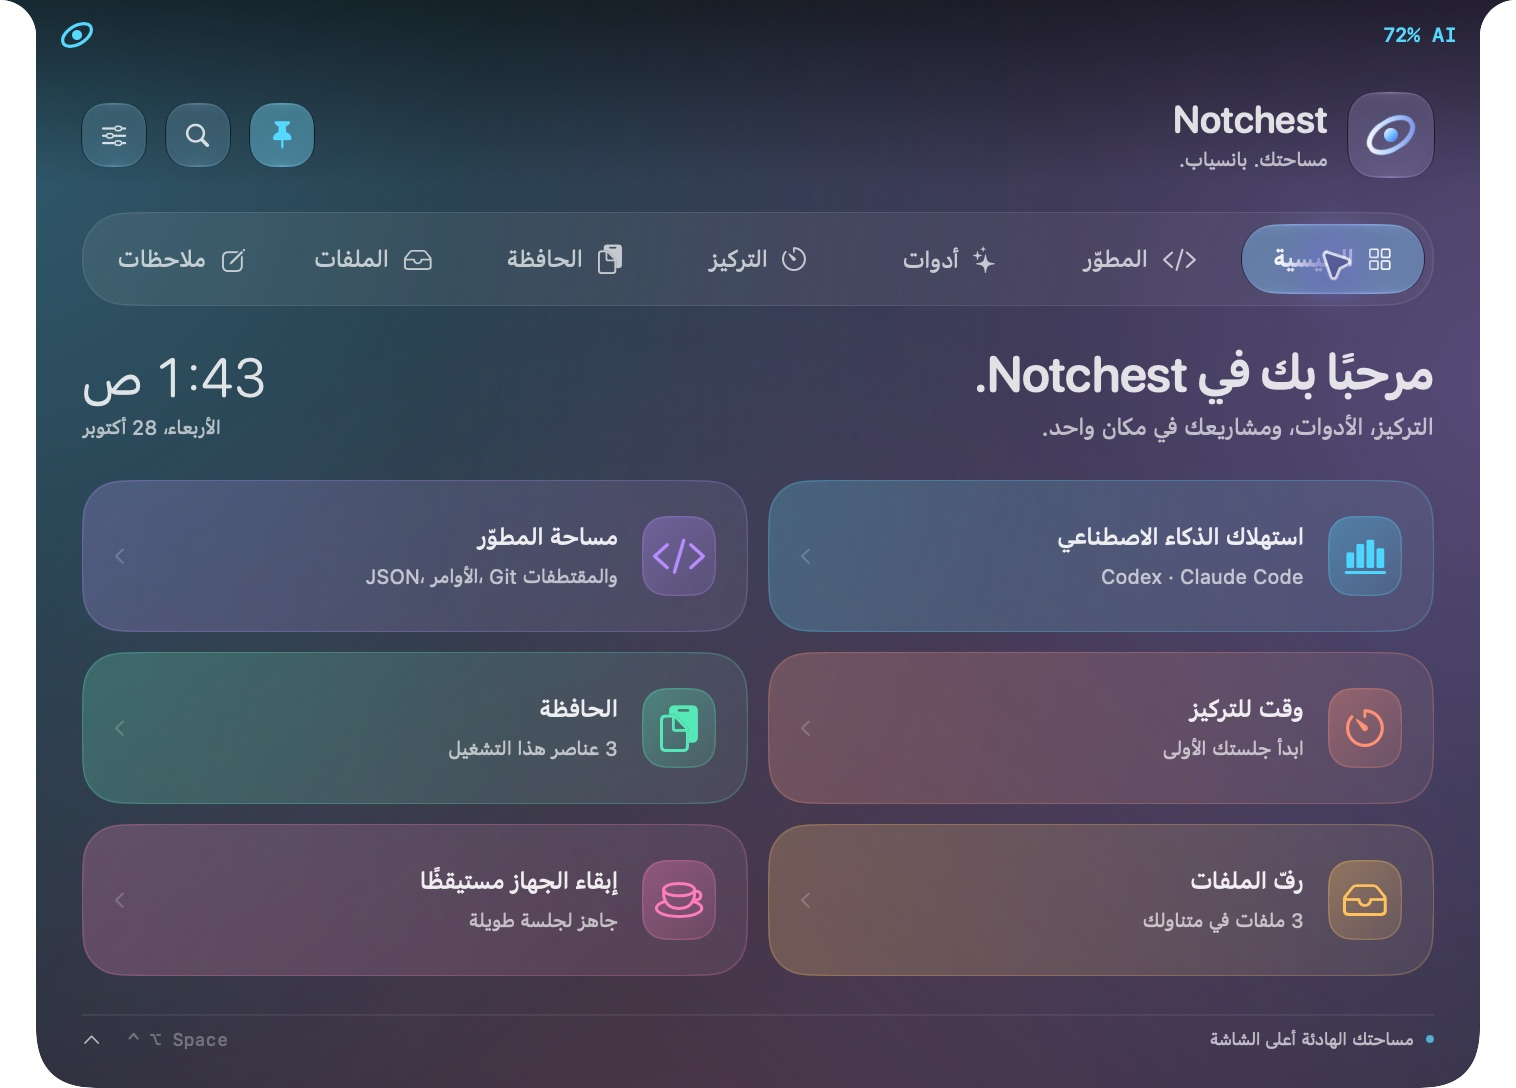
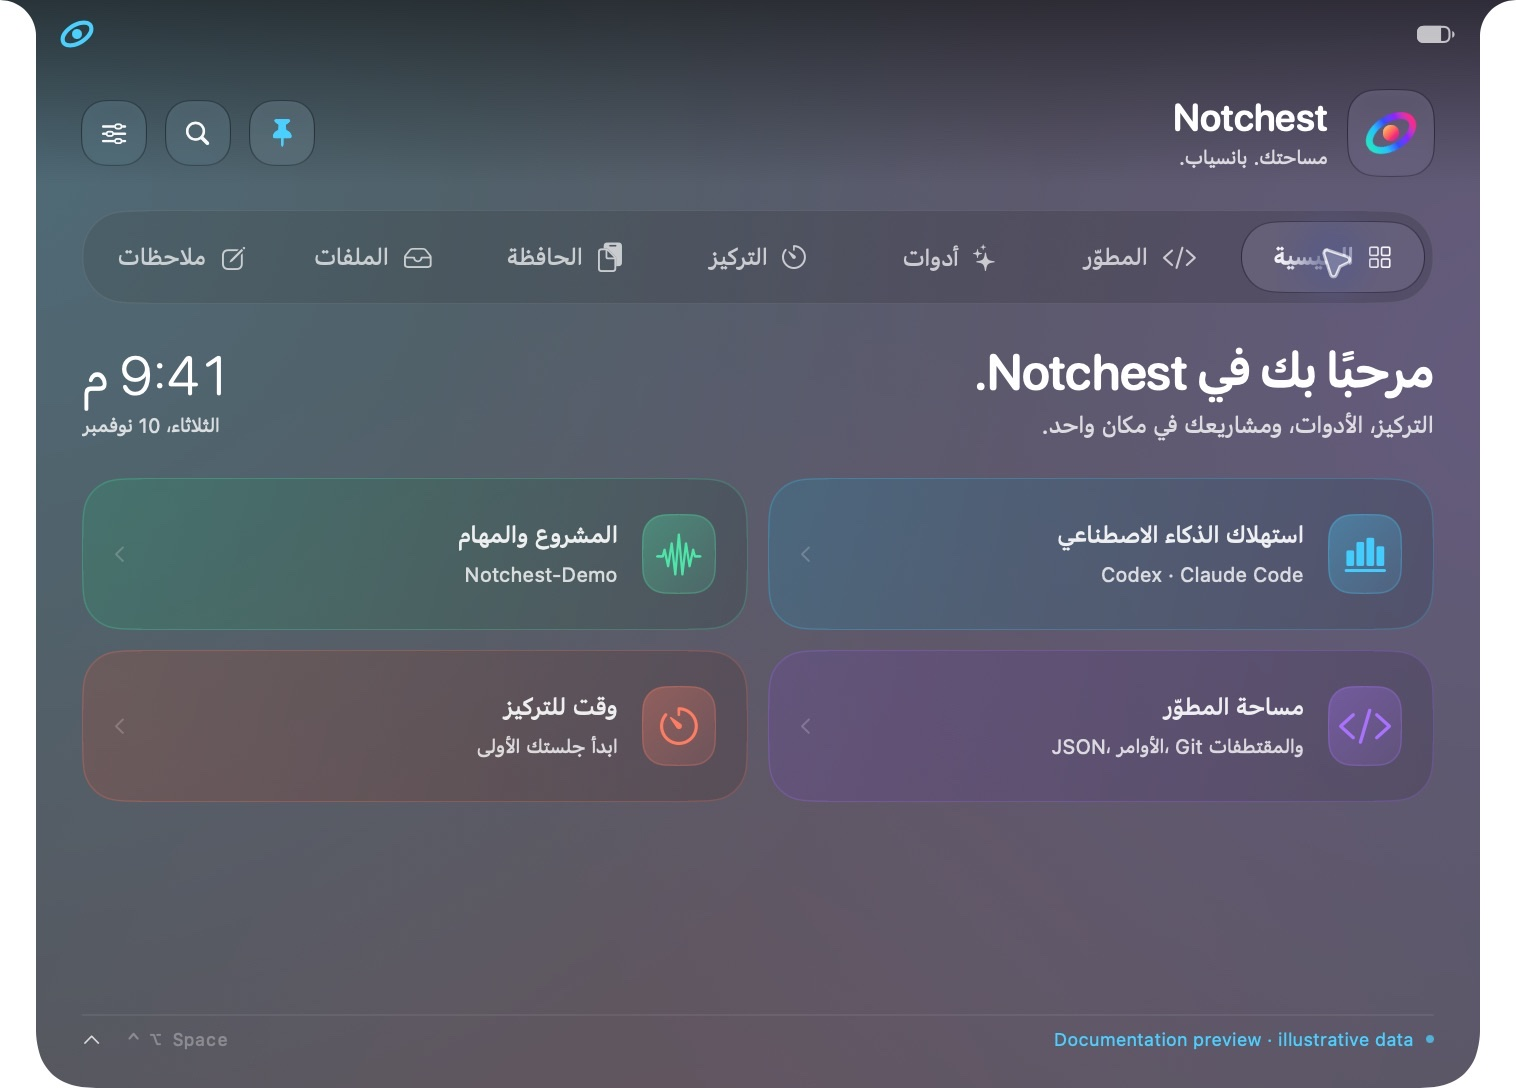
Refresh feature gallery for Notchest 0.7.3

diff --git a/Brand/GALLERY.md b/Brand/GALLERY.md
@@ -16,12 +16,12 @@ the capture shows the setup controls rather than implying a personal account is
 connected. No personal account data, private clipboard, API keys, camera imagery,
 or personal calendar events were used.
 
-The terminal runs a real isolated interactive shell in `/tmp/Notchest-Demo`;
-the command-runner example executes `printf` and displays its actual result.
-No music was played, and no camera, calendar, accessibility, or recording
-permissions were granted to produce these images.
+The terminal capture shows its start screen, and command and project examples
+use illustrative data. No music was played, and no camera, calendar,
+accessibility, or recording permissions were granted for these captures.
 
-The native UI source baseline is commit `b954529`. Documentation fixtures are
+The screenshots reflect the 0.7.3 interface, including the glass surface,
+updated overview and AI summaries. Documentation fixtures are
 kept in `Scripts/gallery/`, outside production `Sources/`. The preparation script
 copies the app into an ignored build directory, injects demonstration models,
 skips background-service startup, and uses a separate bundle identifier. The

diff --git a/README.md b/README.md
@@ -43,9 +43,12 @@ Quickly toggling the island used to make the window jump and the cards shift. Yo
 *An actual app capture. Documentation screenshots use labeled sample data;
 account usage, system readings, notes, music, and task events are illustrative.*
 
-![Notchest in motion — a real screen recording](site/assets/demo.gif)
+Download the feature screenshots from the **notchest-feature-gallery** artifact
+in a [GitHub Actions CI run](https://github.com/H0777/Notchest/actions/workflows/ci.yml).
 
-*The island in motion — a real screen recording of the running app.*
+![Glass and transparency controls in the current Notchest interface](site/assets/screenshots/settings.jpg)
+
+*Adjust transparency and rearrange the overview cards in Settings.*
 
 ## See what is inside
 

diff --git a/README.ar.md b/README.ar.md
@@ -6,6 +6,8 @@
 
 صور المعرض مأخوذة من التطبيق أثناء تشغيله في نسخة توثيق منفصلة. الملاحظات وأرقام الاستخدام وقراءات النظام والموسيقى وأحداث المهام أمثلة توضيحية، وليست بيانات حسابات شخصية.
 
+يمكن تنزيل صور الميزات من ملف **notchest-feature-gallery** في أي تشغيل لفحوص [GitHub Actions](https://github.com/H0777/Notchest/actions/workflows/ci.yml).
+
 ---
 
 # Notchest
